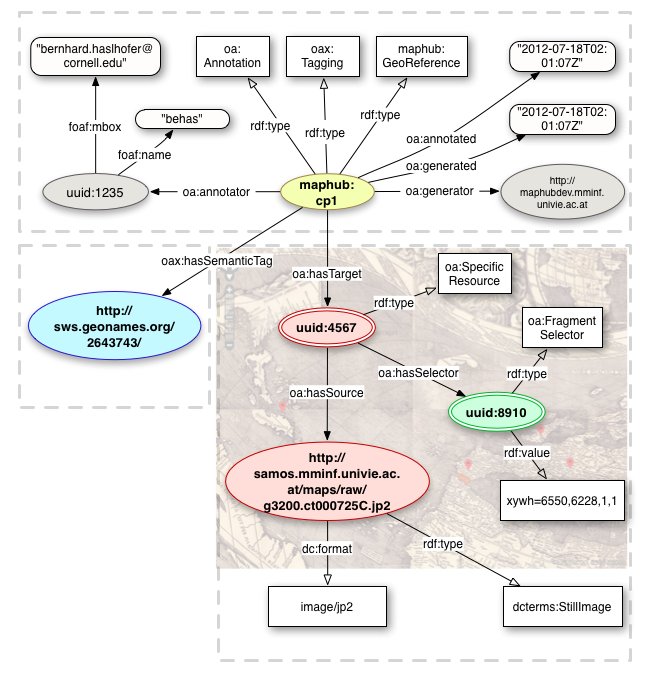
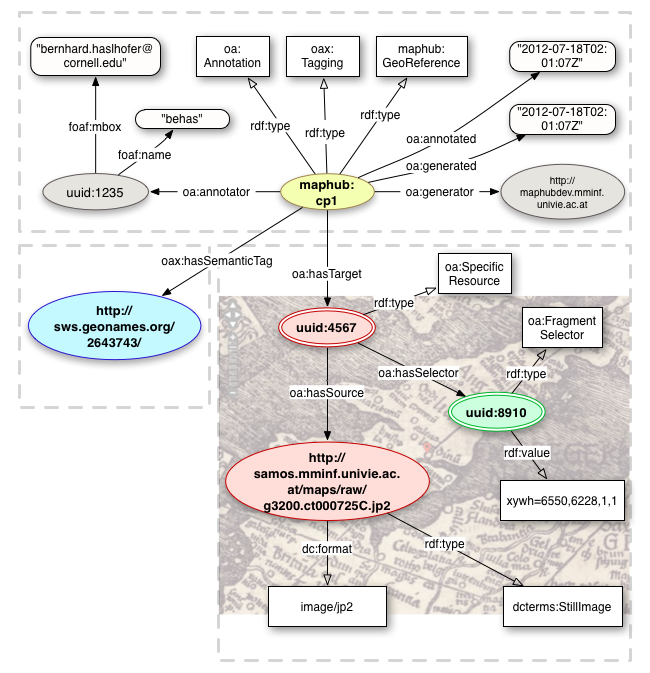
added more examples

Changed region(s): [[0.3077, 0.3432, 0.9846, 0.9361], [0.6154, 0.2808, 0.7692, 0.312]]

diff --git a/index.html b/index.html
@@ -82,13 +82,12 @@ Scholars who study these maps often want to take notes on certain maps or map re
 <table width="85%">
     <tbody>
         <tr>
-            <th class="exhead">Figure 1. Example Map Annotations.</th>
+            <th class="exhead">Figure 1. Example Map.</th>
         </tr>
         <tr>
             <td>
-                <div class="exsubhead">Example Map</div>
                 <center>
-                    <img src="./img/map_annotation.jpg" class="example" alt="Example Map Annotations"/>
+                    <img src="./img/maphub_map.jpg" class="example" alt="Example Map Annotations"/>
                 </center>
             </td>
         </tr>
@@ -158,7 +157,27 @@ Scholars who study these maps often want to take notes on certain maps or map re
 
 <h2><a id="georef_example"></a>2. Georeference Annotations</h2>
 
-<p>A control points associates a place URI (a <strong>Semantic Tag</strong>) with a point on the map, which is the annotation (<strong>Target</strong>). Place URIs are provided by the <a href="http://www.geonames.org/" title="GeoNames">Geonames</a> online gazetteer:</p>
+<p>A control points associates a place URI (a <strong>Semantic Tag</strong>) with a point on the map, which is the annotation (<strong>Target</strong>).</p>
+
+<center>
+<table width="85%">
+    <tbody>
+        <tr>
+            <th class="exhead">Figure 2. Example Control Point.</th>
+        </tr>
+        <tr>
+            <td>
+                <center>
+                    <img src="./img/maphub_control_point.jpg" class="example" alt="Example Control Point"/>
+                </center>
+            </td>
+        </tr>
+    </tbody>
+</table>
+</center>
+
+
+<p>Place URIs are provided by the <a href="http://www.geonames.org/" title="GeoNames">Geonames</a> online gazetteer:</p>
 
 <ul>
     <li><a href="http://sws.geonames.org/2643743/">http://sws.geonames.org/2643743/</a>: London, UK</li>
@@ -166,7 +185,7 @@ Scholars who study these maps often want to take notes on certain maps or map re
     <li><a href="http://sws.geonames.org/2761369/">http://sws.geonames.org/2761369/</a>: Vienna, AT</li>
 </ul>
 
-<p>Georeference Annotations (Control Points) are dereferenceable Web resources. When a client issues an HTTP GET request against the Georeference Annotation HTTP URI, Maphub determines the response format based on the value of the HTTP Accept header submitted by the client.</p>
+<p>Georeference Annotations (Control Points) in Maphub are dereferenceable Web resources. When a client issues an HTTP GET request against the Georeference Annotation HTTP URI, Maphub determines the response format based on the value of the HTTP Accept header submitted by the client.</p>
 
 <p>Figure 2 shows an example Georeference Annotation (<code>http://maphubdev.mminf.univie.ac.at/control_points/1</code>) represented in the Open Annotation model.</p>
 
@@ -230,9 +249,6 @@ Scholars who study these maps often want to take notes on certain maps or map re
 <h2><a id="comment_example"></a>3. Commentarial Annotations</h2>
 
 <p>Commenting on maps or map segments is another frequent historic map annotation use case. This form of annotation varies in technical complexity, depending on the body structure and the annotation target. In the following, we illustrate how to represent various forms of commentarial annotations.</p>
-
-
-<h3><a id="comment_simple"/>3.1. Simple Comment on a Map</h3>
 
 <p>Associating unstructured text with a whole map is the simplest use case. The body is represented as inline information, the target is the map image file.</p>
 
